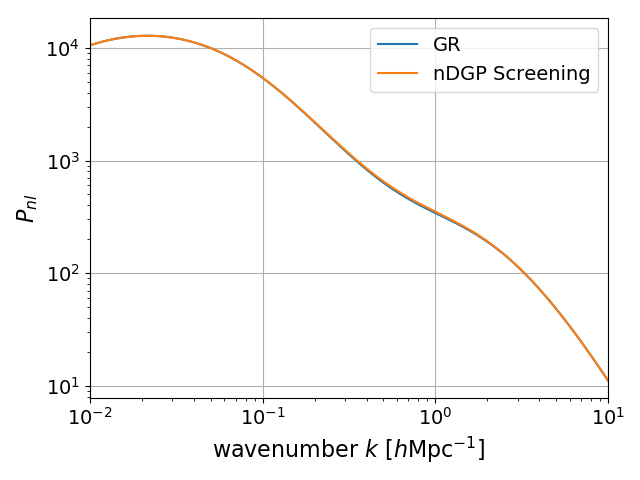
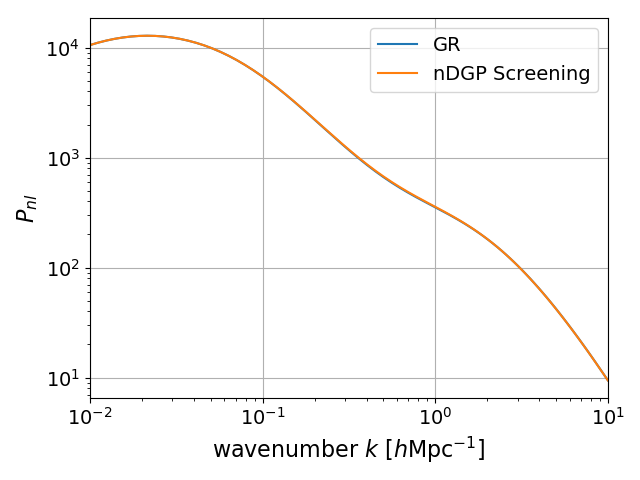
Add files via upload

diff --git a/ndGPmead/main.cpp b/ndGPmead/main.cpp
@@ -52,9 +52,18 @@ int main (int argc, char * argv[])
     * Write power spectra to table
     */
     case (1):
-    {
+    { 
+      astro::parameterFile parameters ("optimised.txt");
+
       forceTerm SI (&D_lcdm,&cos_model_1,NULL,a_final,1);
+      double k_scale = SI.get_Yukawa_scale(a_final);
+      SI.set_factors
+	(parameters.get("k_factor"), parameters.get("r_factor"), a_final);
+
       forceTerm SI2 (&D_screening,&cos_model_1,&g_screening,a_final,0);
+      double k_factor2 = parameters.get("k_factor")*k_scale/SI2.get_Yukawa_scale(a_final);
+      SI2.set_factors
+	(k_factor2, parameters.get("r_factor"), a_final);
 
       astro::table meadDelta ("mead.txt");
 
@@ -62,79 +71,12 @@ int main (int argc, char * argv[])
       write.add_header("#Column 1: wavenumber k");
       write.add_header("#Column 2: non-linear GR");
       write.add_header("#Column 3: non-linear screening");
-      write.add_header("#Column 4: Mead et al");
       write.add_header("#evaluated at a = "+std::to_string(a_final));
       write.push_back ([&] (double k) { return SI.analyticP(k,a_final); });
       write.push_back ([&] (double k) { return SI2.analyticP(k,a_final); });
-      write.push_back ([&] (double k)
-        { return meadDelta (k)*(2.0*M_PI*M_PI)/gsl_pow_3 (k); });
-      write (0.01, 10.0, 128, astro::LOG_SPACING);
+      write (0.01,10.0,128,astro::LOG_SPACING);
       break;
-    }
-
-    case (2):
-    {
-      forceTerm SI (&D_lcdm,&cos_model_1,NULL,a_final,1);
-      forceTerm SI2 (&D_screening,&cos_model_1,&g_screening,a_final,0);
-
-      astro::table meadDelta ("mead.txt");
-      std::function<double (double)> meadEtalP = [&] (double k)
-        { return meadDelta (k)*(2.0*M_PI*M_PI)/gsl_pow_3 (k); };
-
-      const int n = 4;
-      std::vector<double> k = astro::fill (astro::LOG_SPACING, n, 0.2, 5.0);
-      std::vector<double> P (n);
-      for (unsigned int i = 0; i < n; i++)
-        P[i] = meadEtalP (k[i])/SI2.linearP (k[i], a_final);
-
-      astro::data_model model;
-      model.n = n;
-      model.p = 2;
-      model.x = k.data ();
-      model.y = P.data ();
-      model.log = false;
-      model.model = [&] (double k, std::vector<double> p)
-      {
-        SI2.set_factors (p[0], p[1], a_final);
-        return exp (SI2 (k, a_final));
-      };
-      model.dmodel = NULL;
-      astro::nlModeller fit (model, false);
-      double p[2] = {1.0, 1.0};
-      fit (p);
-
-      std::ofstream output ("optimised.txt");
-      output
-        << "# options containing parameters for optimal overlap"
-        << std::endl
-        << "k_factor  " << p[0]
-        << std::endl
-        << "r_factor  " << p[1]
-        << std::endl;
-      output.close ();
-
-      break;
-    }
-
-    case (3):
-    {
-      forceTerm SI (&D_lcdm,&cos_model_1,NULL,a_final,1);
-      forceTerm SI2 (&D_screening,&cos_model_1,&g_screening,a_final,0);
-
-      astro::parameterFile parameters ("optimised.txt");
-      SI2.set_factors
-        (parameters.get ("k_factor"), parameters.get ("r_factor"), a_final);
-
-      astro::table meadDelta ("mead.txt");
-
-      astro::functionWriter write (output);
-      write.push_back ([&] (double k) { return SI2.linearP (k, a_final); });
-      write.push_back ([&] (double k) { return SI2.analyticP (k, a_final); });
-      write.push_back ([&] (double k)
-        { return meadDelta (k)*(2.0*M_PI*M_PI)/gsl_pow_3 (k); });
-      write (0.01, 10.0, 128, astro::LOG_SPACING);
-
-      break;
+    
     }
 
     default:

diff --git a/ndGPmead/forceTerm.cpp b/ndGPmead/forceTerm.cpp
@@ -9,7 +9,7 @@ forceTerm::forceTerm
   (astro::abstractGrowthFactor * growth_model_in,
    astro::cosmologyBase * cosmological_model_in,
    astro::gEffective * g_effective_in, double a_norm_in, int proptype):
-a_min (0.001), a_max (1.0), k_min (0.01), k_max (10.0), k_scale (0.0), k_star (10.0),
+a_min (0.001), a_max (1.0), k_min (0.01), k_max (10.0), k_scale (0.0), k_star (0.1),
 a_save (-1.0), k_save (-1.0), f_k_save (-1.0), f_r_save (-1.0), n_table (128),
 g_effective (g_effective_in), proptype (proptype)
 {

diff --git a/ndGPmead/gScreening.cpp b/ndGPmead/gScreening.cpp
@@ -15,7 +15,7 @@ double gScreening::operator () (double a, double k)
   if (std::isnan(k) == false)
     this->k_internal = k;
   screeningParameters q (cos_model,a);
-  double k_star = 10.0; /* till now, free parameter*/
+  double k_star = 0.1; /* till now, free parameter*/
   double Geff_Gn = 1.0 + q.param_B*q.param_b*pow (k_star/this->k_internal,q.param_a)*(pow(1.0 + pow(this->k_internal/k_star,q.param_a),1/q.param_b)-1.0);
   
   return Geff_Gn;
